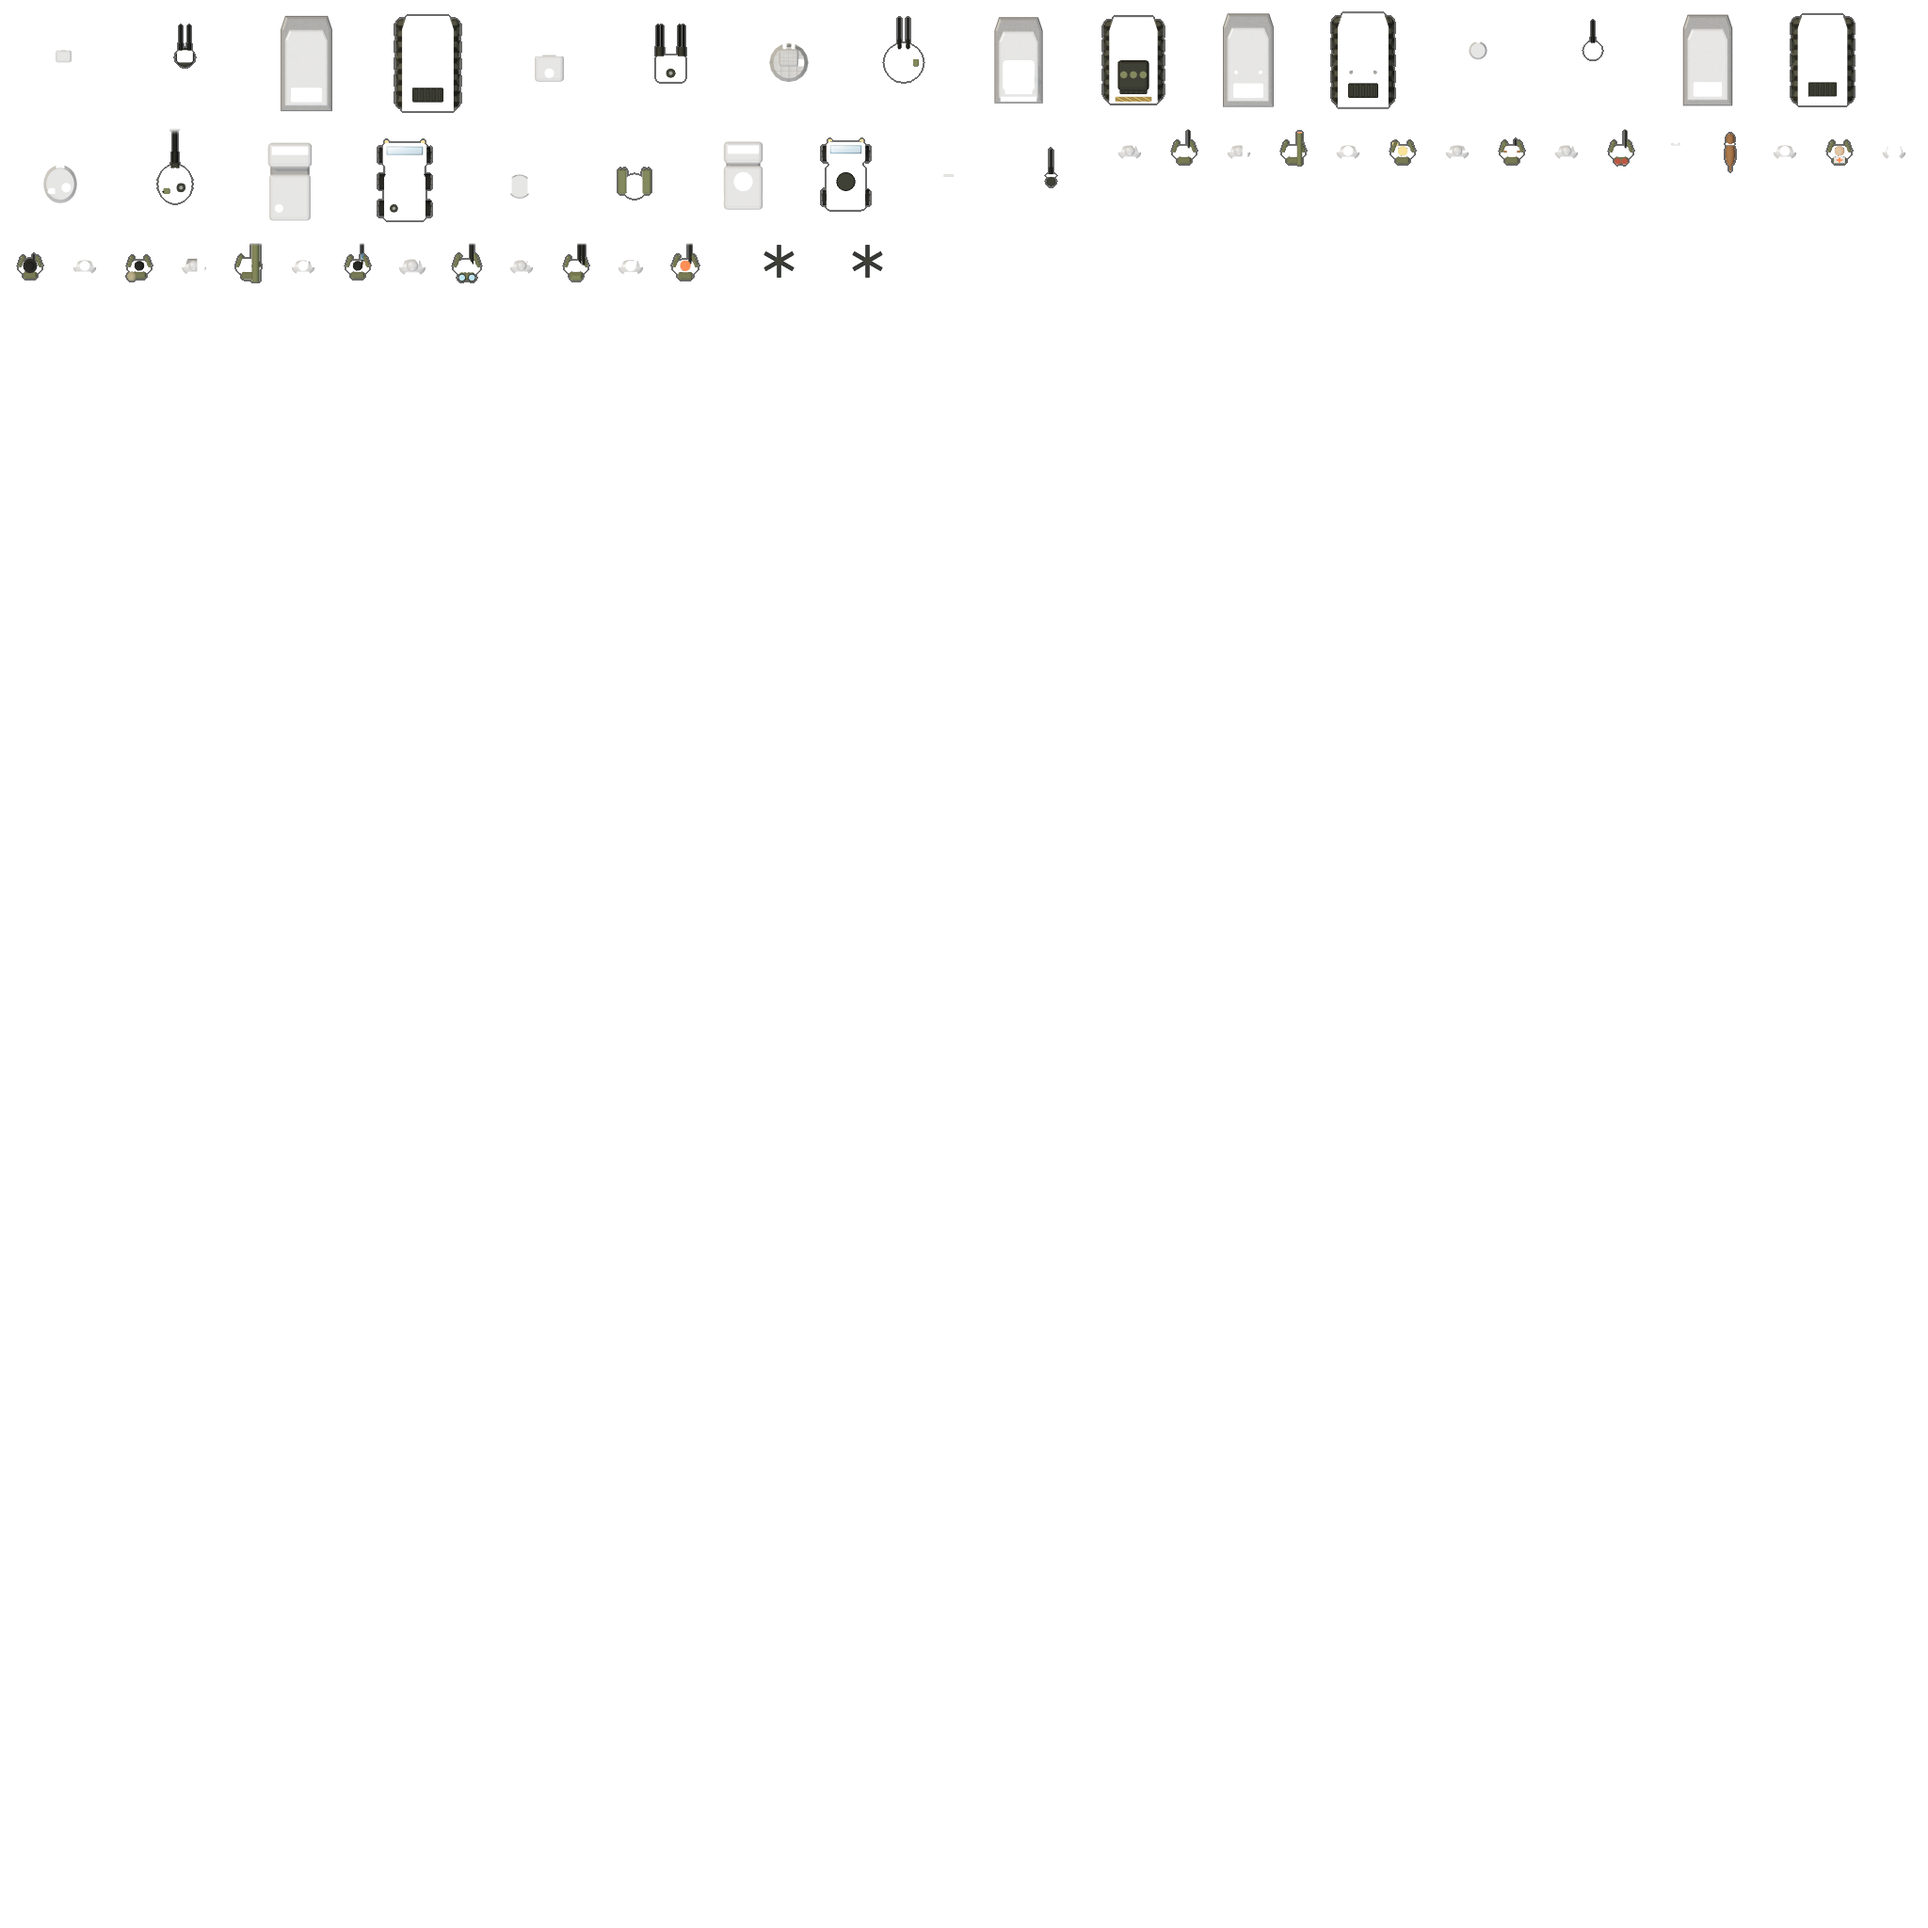
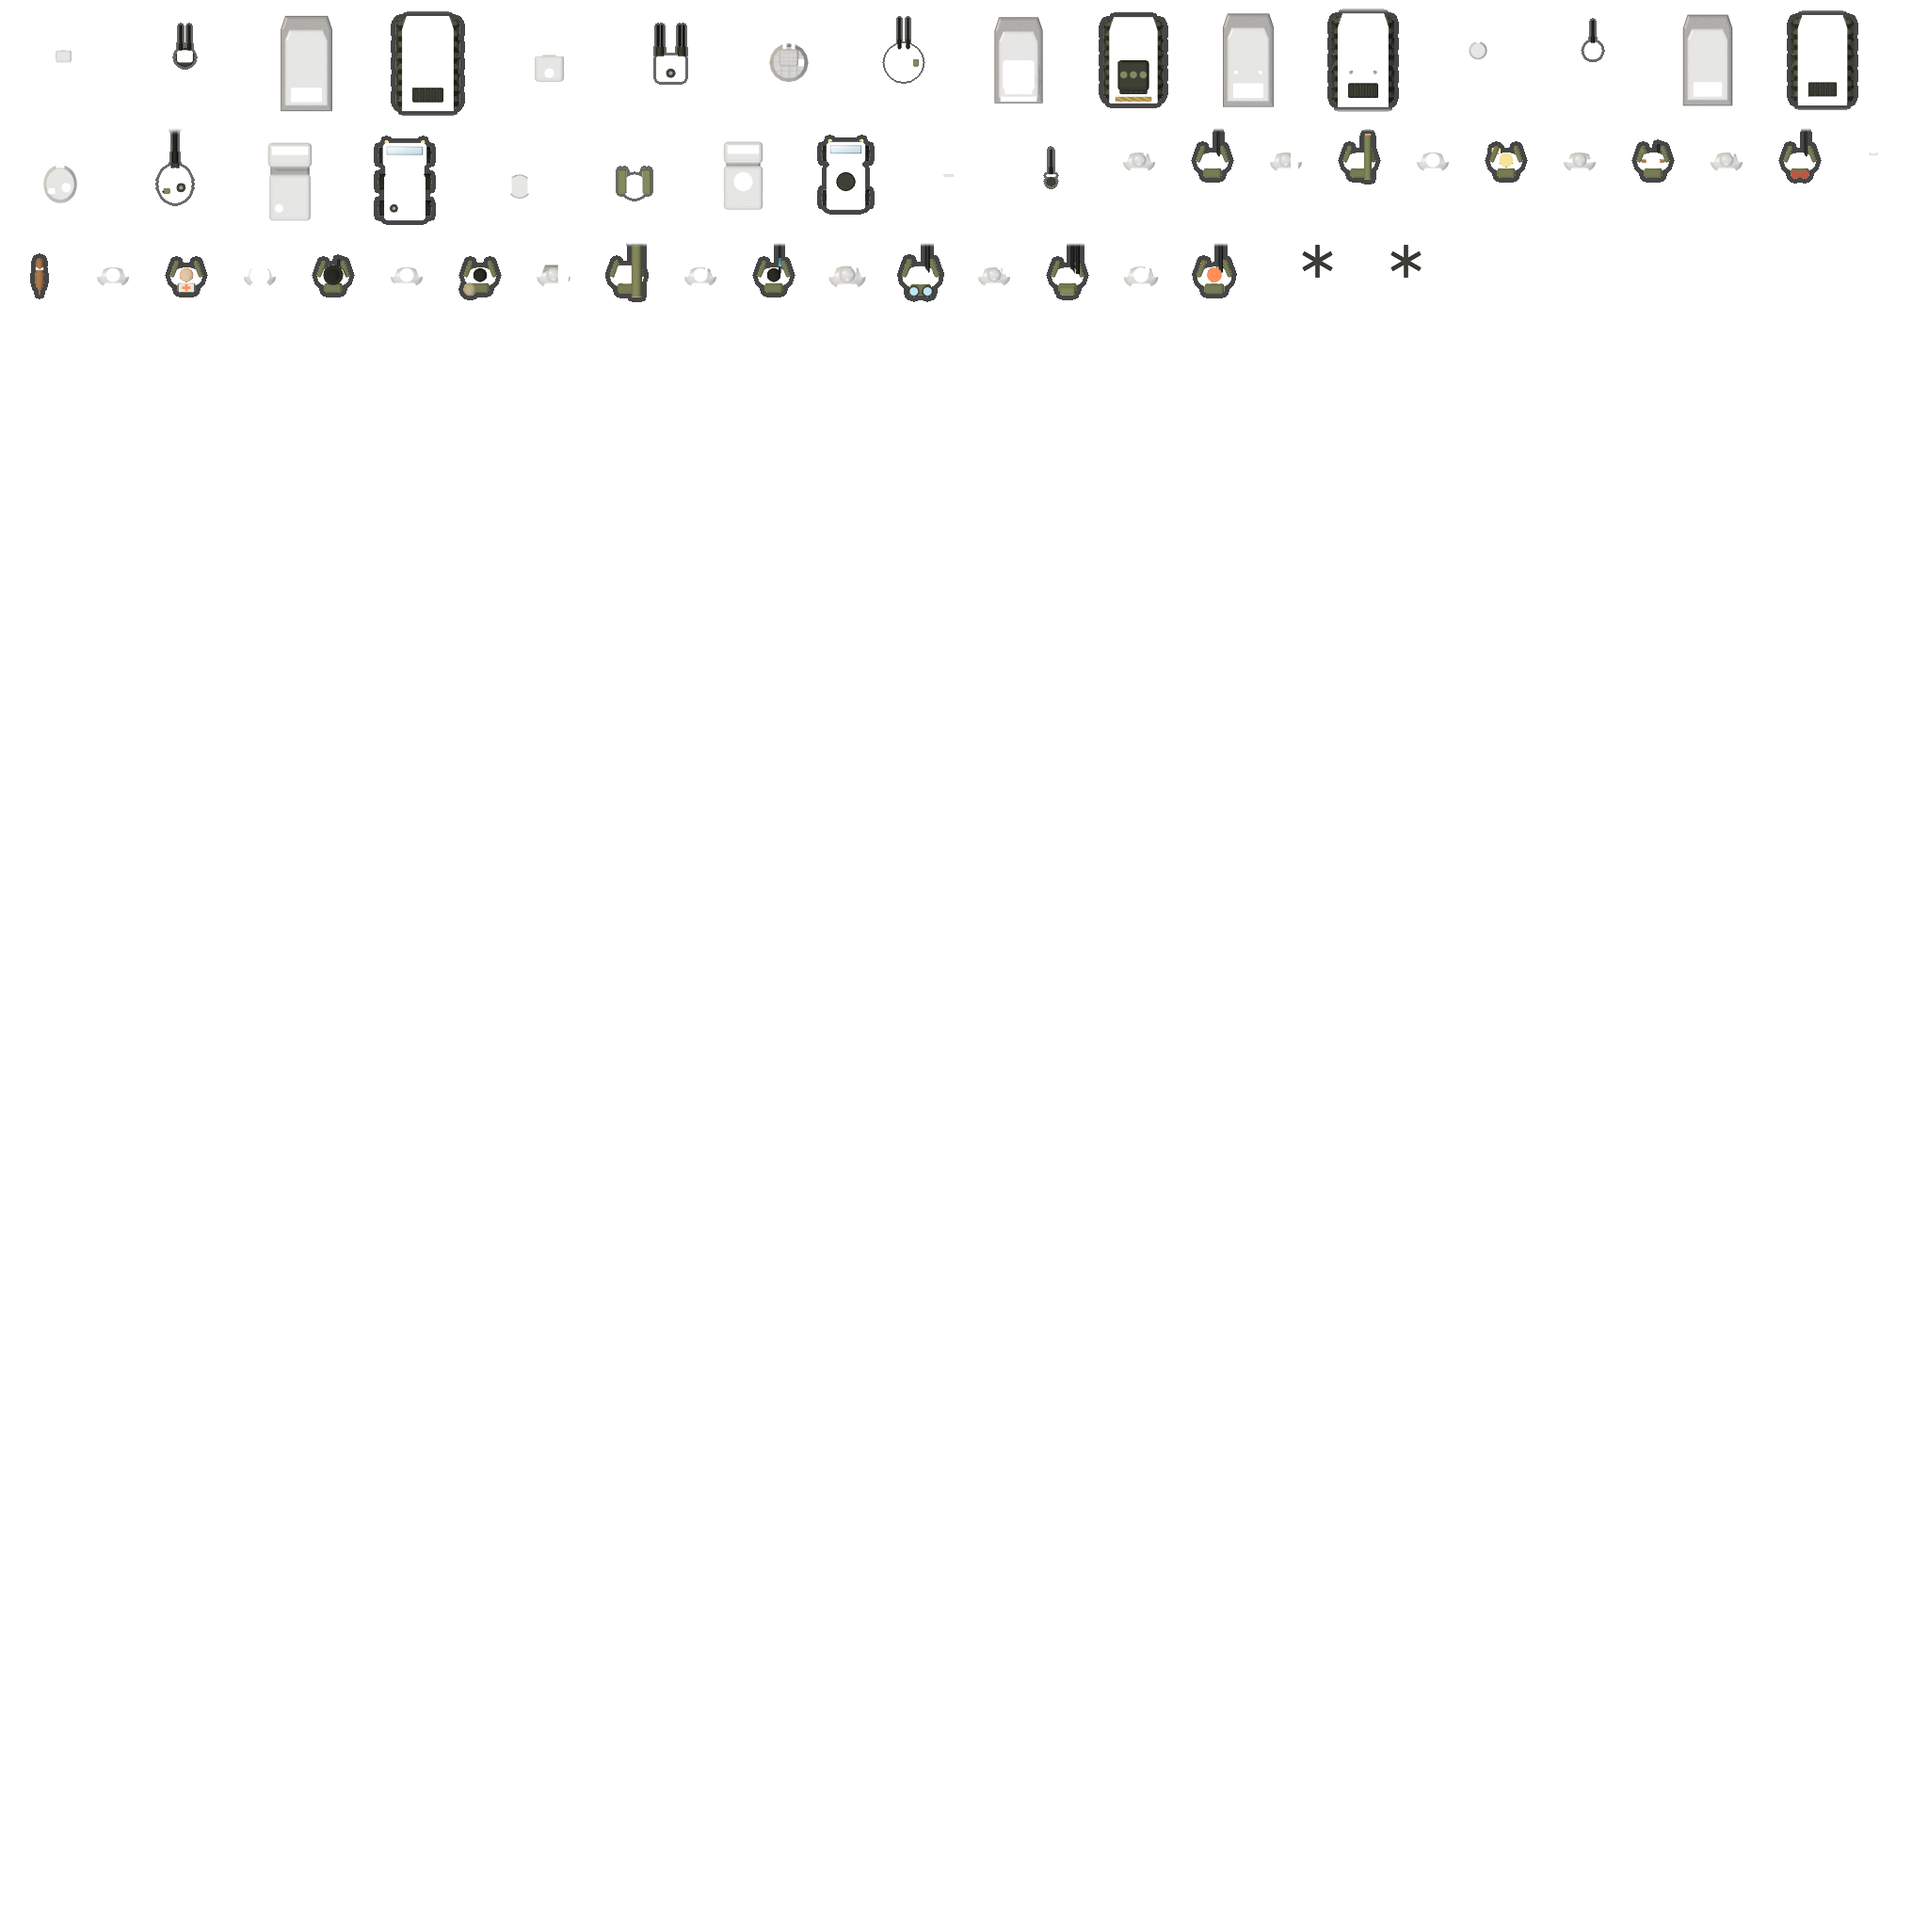
Command Front: calmer ground, clearer units
Ground texture contrast and relief toned right down and grass made a
darker, muted green, so units no longer blend into it. Units get a
thicker dark rim that survives zooming out, deeper shadows, and
soldiers are drawn 1.4x larger.

Claude-Session: https://claude.ai/code/session_019HEXXrF3ovYnwZ7spp2Umw

diff --git a/command-front/src/render/units.js b/command-front/src/render/units.js
@@ -33,7 +33,7 @@ function framesFor(type) {
 }
 
 /** World-px offset of a unit's shadow (south-east, away from the sun), on the ground and in flight. */
-const SHADOW = { x: 2.2, y: 3, alpha: 0.32, flyingX: 5, flyingY: 6 };
+const SHADOW = { x: 2.2, y: 3, alpha: 0.45, flyingX: 5, flyingY: 6 };
 /** Rotor speed, radians per ms. */
 const ROTOR_SPEED = 0.045;
 

diff --git a/command-front/sw.js b/command-front/sw.js
@@ -1,7 +1,7 @@
 /* Command Front service worker: cache-first, versioned. Hand-maintained list —
    add every file the game loads; ?debug warns at startup about any that are missing.
    Bump CACHE whenever a listed file changes. */
-const CACHE = 'command-front-v26';
+const CACHE = 'command-front-v27';
 
 const PRECACHE = [
   './',
